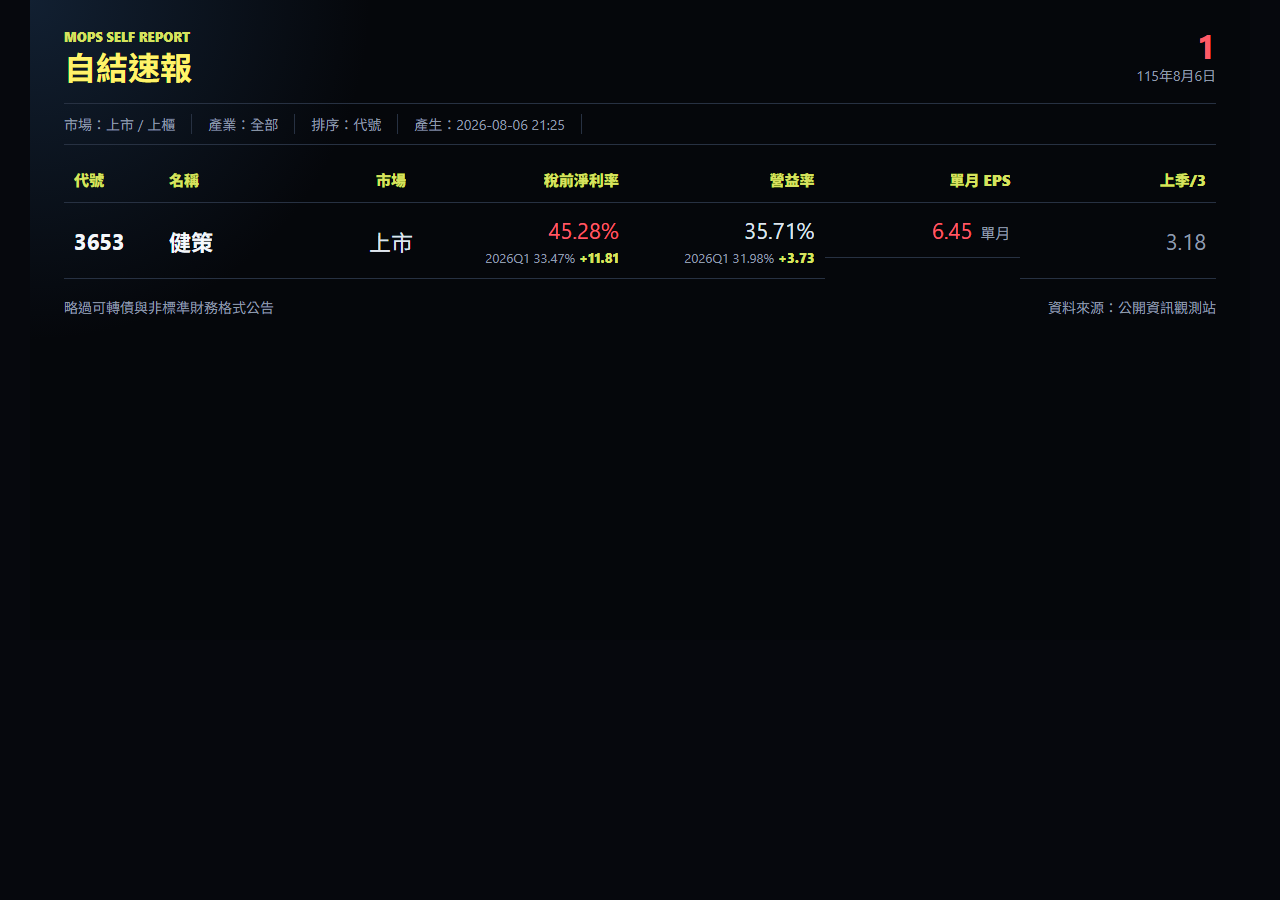
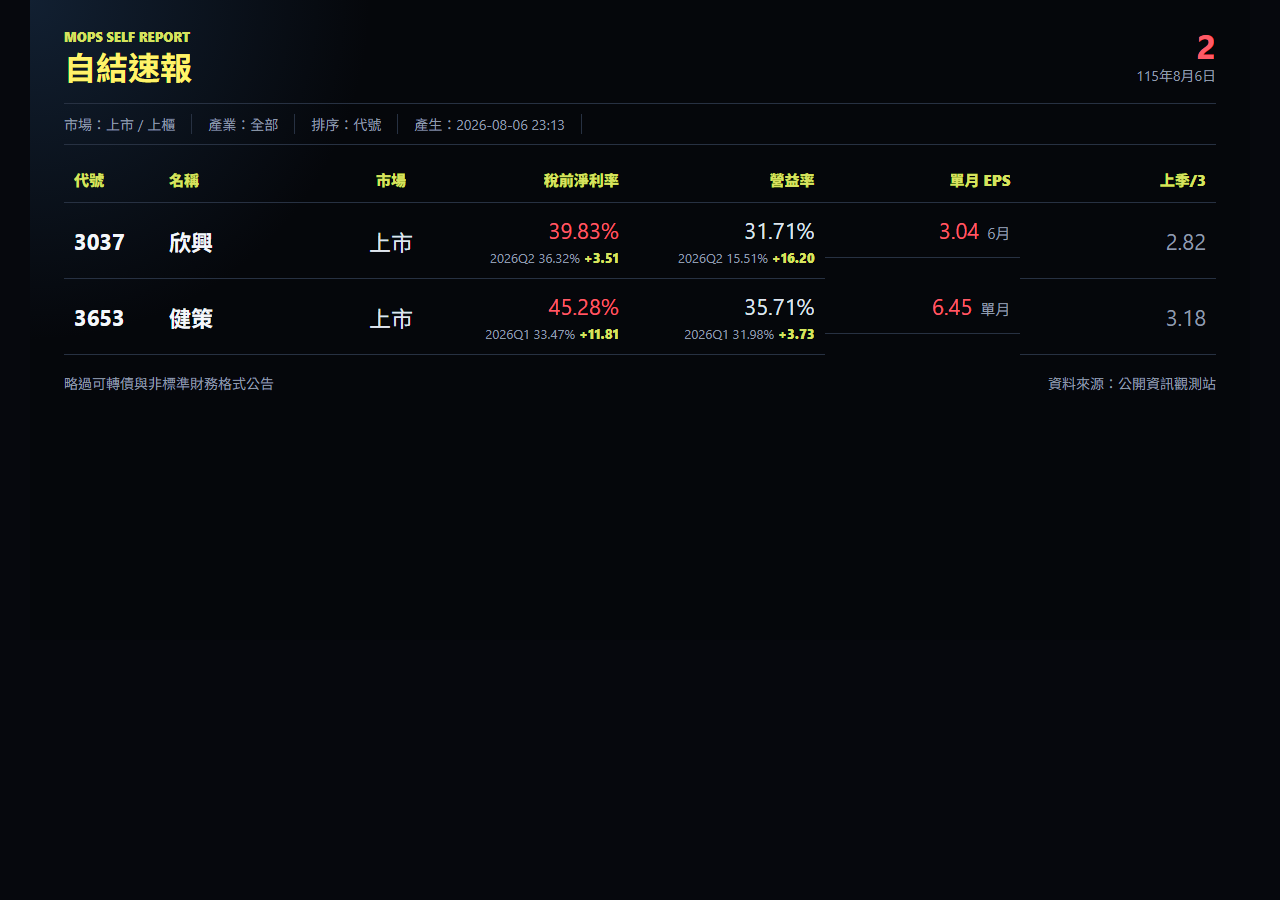
Include Unimicron self report 2026-08-06

diff --git a/api/_data/self-report-history.js b/api/_data/self-report-history.js
@@ -1,27 +1,49 @@
 window.selfReportHistory = {
   "items": [
     {
-      "generatedAt": "2026-08-06T21:25:23+08:00",
+      "generatedAt": "2026-08-06T23:13:04+08:00",
       "queryDate": "2026-08-06",
       "displayDate": "115年8月6日",
-      "checkedAt": "2026-08-06T21:25:23+08:00",
+      "checkedAt": "2026-08-06T23:13:04+08:00",
       "checkedQueryDate": "2026-08-06",
       "checkedDisplayDate": "115年8月6日",
-      "checkedCount": 1,
+      "checkedCount": 2,
       "checkedSkipped": {
         "bond_subject": 1,
-        "missing_financials": 1,
+        "missing_financials": 0,
         "duplicate": 0,
         "detail_error": 0
       },
-      "count": 1,
+      "count": 2,
       "skipped": {
         "bond_subject": 1,
-        "missing_financials": 1,
+        "missing_financials": 0,
         "duplicate": 0,
         "detail_error": 0
       },
       "rows": [
+        {
+          "code": "3037",
+          "name": "欣興",
+          "market": "上市",
+          "announcement_date": "115/08/06",
+          "subject": "係因本公司有價證券於集中交易市場達公布注意交易資訊 標準， 故公布相關財務業務等重大訊息，以利投資人區別瞭解",
+          "month_label": "6月",
+          "monthly_revenue": 14897.0,
+          "monthly_pre_tax_income": 5934.0,
+          "monthly_parent_income": 4724.0,
+          "monthly_eps": 3.04,
+          "quarter_eps": 8.45,
+          "tax_margin_pct": 39.83352352822716,
+          "operating_margin_pct": 31.711082768342617,
+          "previous_quarter_monthly_eps": 2.8166666666666664,
+          "reference_quarter": "2026Q2",
+          "reference_tax_margin_pct": 36.32,
+          "reference_operating_margin_pct": 15.51,
+          "tax_margin_delta_pct": 3.513523528227161,
+          "operating_margin_delta_pct": 16.201082768342616,
+          "detail_key": "sii:3037:20260806:154541:1"
+        },
         {
           "code": "3653",
           "name": "健策",

diff --git a/api/_data/self-report/self-report-2026-08-06.js b/api/_data/self-report/self-report-2026-08-06.js
@@ -1,26 +1,48 @@
 window.selfReportArchiveItems = window.selfReportArchiveItems || {};
 window.selfReportArchiveItems["2026-08-06"] = {
-  "generatedAt": "2026-08-06T21:25:23+08:00",
+  "generatedAt": "2026-08-06T23:13:04+08:00",
   "queryDate": "2026-08-06",
   "displayDate": "115年8月6日",
-  "checkedAt": "2026-08-06T21:25:23+08:00",
+  "checkedAt": "2026-08-06T23:13:04+08:00",
   "checkedQueryDate": "2026-08-06",
   "checkedDisplayDate": "115年8月6日",
-  "checkedCount": 1,
+  "checkedCount": 2,
   "checkedSkipped": {
     "bond_subject": 1,
-    "missing_financials": 1,
+    "missing_financials": 0,
     "duplicate": 0,
     "detail_error": 0
   },
-  "count": 1,
+  "count": 2,
   "skipped": {
     "bond_subject": 1,
-    "missing_financials": 1,
+    "missing_financials": 0,
     "duplicate": 0,
     "detail_error": 0
   },
   "rows": [
+    {
+      "code": "3037",
+      "name": "欣興",
+      "market": "上市",
+      "announcement_date": "115/08/06",
+      "subject": "係因本公司有價證券於集中交易市場達公布注意交易資訊 標準， 故公布相關財務業務等重大訊息，以利投資人區別瞭解",
+      "month_label": "6月",
+      "monthly_revenue": 14897.0,
+      "monthly_pre_tax_income": 5934.0,
+      "monthly_parent_income": 4724.0,
+      "monthly_eps": 3.04,
+      "quarter_eps": 8.45,
+      "tax_margin_pct": 39.83352352822716,
+      "operating_margin_pct": 31.711082768342617,
+      "previous_quarter_monthly_eps": 2.8166666666666664,
+      "reference_quarter": "2026Q2",
+      "reference_tax_margin_pct": 36.32,
+      "reference_operating_margin_pct": 15.51,
+      "tax_margin_delta_pct": 3.513523528227161,
+      "operating_margin_delta_pct": 16.201082768342616,
+      "detail_key": "sii:3037:20260806:154541:1"
+    },
     {
       "code": "3653",
       "name": "健策",

diff --git a/api/_data/self-report-latest.js b/api/_data/self-report-latest.js
@@ -1,25 +1,47 @@
 window.selfReportLatest = {
-  "generatedAt": "2026-08-06T21:25:23+08:00",
+  "generatedAt": "2026-08-06T23:13:04+08:00",
   "queryDate": "2026-08-06",
   "displayDate": "115年8月6日",
-  "checkedAt": "2026-08-06T21:25:23+08:00",
+  "checkedAt": "2026-08-06T23:13:04+08:00",
   "checkedQueryDate": "2026-08-06",
   "checkedDisplayDate": "115年8月6日",
-  "checkedCount": 1,
+  "checkedCount": 2,
   "checkedSkipped": {
     "bond_subject": 1,
-    "missing_financials": 1,
+    "missing_financials": 0,
     "duplicate": 0,
     "detail_error": 0
   },
-  "count": 1,
+  "count": 2,
   "skipped": {
     "bond_subject": 1,
-    "missing_financials": 1,
+    "missing_financials": 0,
     "duplicate": 0,
     "detail_error": 0
   },
   "rows": [
+    {
+      "code": "3037",
+      "name": "欣興",
+      "market": "上市",
+      "announcement_date": "115/08/06",
+      "subject": "係因本公司有價證券於集中交易市場達公布注意交易資訊 標準， 故公布相關財務業務等重大訊息，以利投資人區別瞭解",
+      "month_label": "6月",
+      "monthly_revenue": 14897.0,
+      "monthly_pre_tax_income": 5934.0,
+      "monthly_parent_income": 4724.0,
+      "monthly_eps": 3.04,
+      "quarter_eps": 8.45,
+      "tax_margin_pct": 39.83352352822716,
+      "operating_margin_pct": 31.711082768342617,
+      "previous_quarter_monthly_eps": 2.8166666666666664,
+      "reference_quarter": "2026Q2",
+      "reference_tax_margin_pct": 36.32,
+      "reference_operating_margin_pct": 15.51,
+      "tax_margin_delta_pct": 3.513523528227161,
+      "operating_margin_delta_pct": 16.201082768342616,
+      "detail_key": "sii:3037:20260806:154541:1"
+    },
     {
       "code": "3653",
       "name": "健策",
